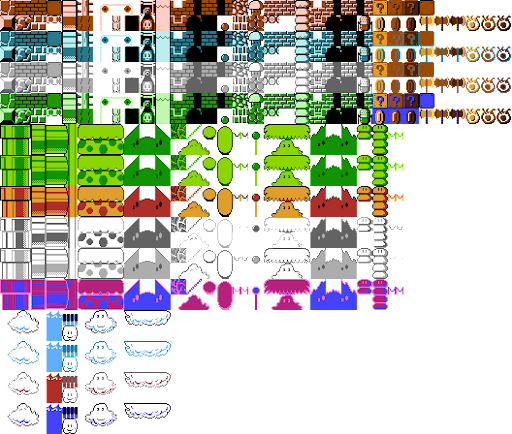
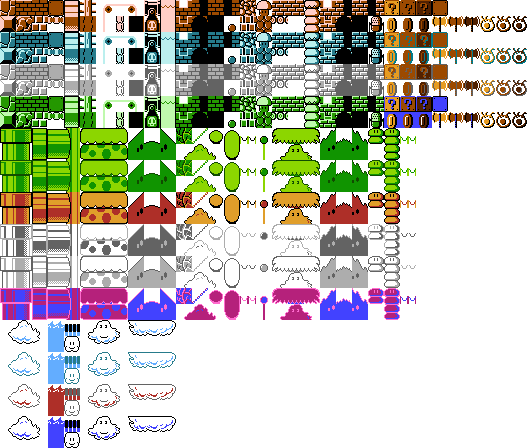
proper tileset. drawing backgrounds

diff --git a/public/js/index.js b/public/js/index.js
@@ -1,13 +1,24 @@
 import SpriteSheet from './spritesheet.js';
-import { loadImage } from './loaders.js';
+import { loadImage, loadLevel } from './loaders.js';
 
 const canvas = document.getElementById('screen');
 const context = canvas.getContext('2d');
-context.fillRect(0, 0, 50, 50);
 
 const image = await loadImage('../images/tiles.png');
+const level = await loadLevel('1-1');
 
-const sprites = new SpriteSheet(image, 15.5, 15.5);
+function drawBackground(background, context, sprites) {
+	background.ranges.forEach(([x1, x2, y1, y2]) => {
+		for (let x = x1; x < x2; x++) {
+			for (let y = y1; y < y2; y++) {
+				sprites.drawTile(background.tile, context, x, y);
+			}
+		}
+	});
+}
+
+const sprites = new SpriteSheet(image, 16, 16);
 sprites.define('ground', 0, 0);
-sprites.define('sky', 3, 21);
-sprites.draw('sky', context, 45, 62);
+sprites.define('sky', 3, 23);
+
+level.backgrounds.forEach((background) => drawBackground(background, context, sprites));

diff --git a/public/js/spritesheet.js b/public/js/spritesheet.js
@@ -21,4 +21,8 @@ export default class SpriteSheet {
 		const buffer = this.tiles.get(name);
 		context.drawImage(buffer, x, y);
 	}
+
+	drawTile(name, context, x, y) {
+		this.draw(name, context, x * this.width, y * this.height);
+	}
 }

diff --git a/public/js/loaders.js b/public/js/loaders.js
@@ -7,3 +7,8 @@ export async function loadImage(url) {
 		image.src = url;
 	});
 }
+
+export async function loadLevel(name) {
+	const level = await fetch(`levels/${name}.json`);
+	return level.json();
+}
